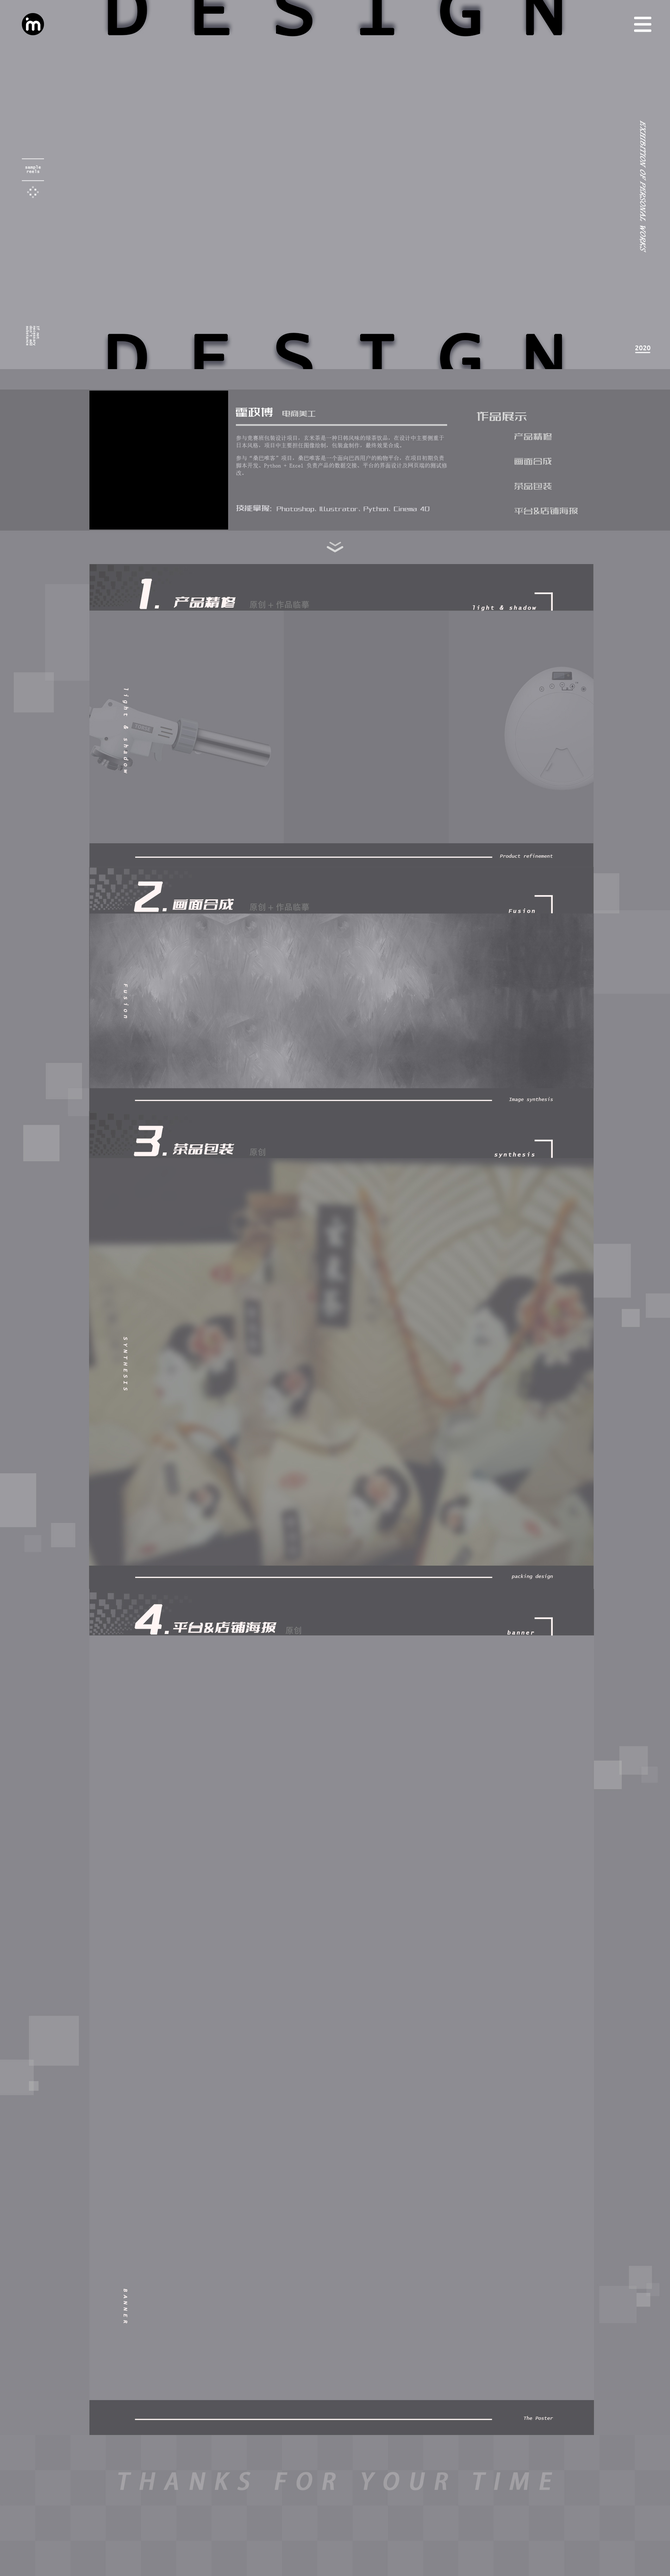
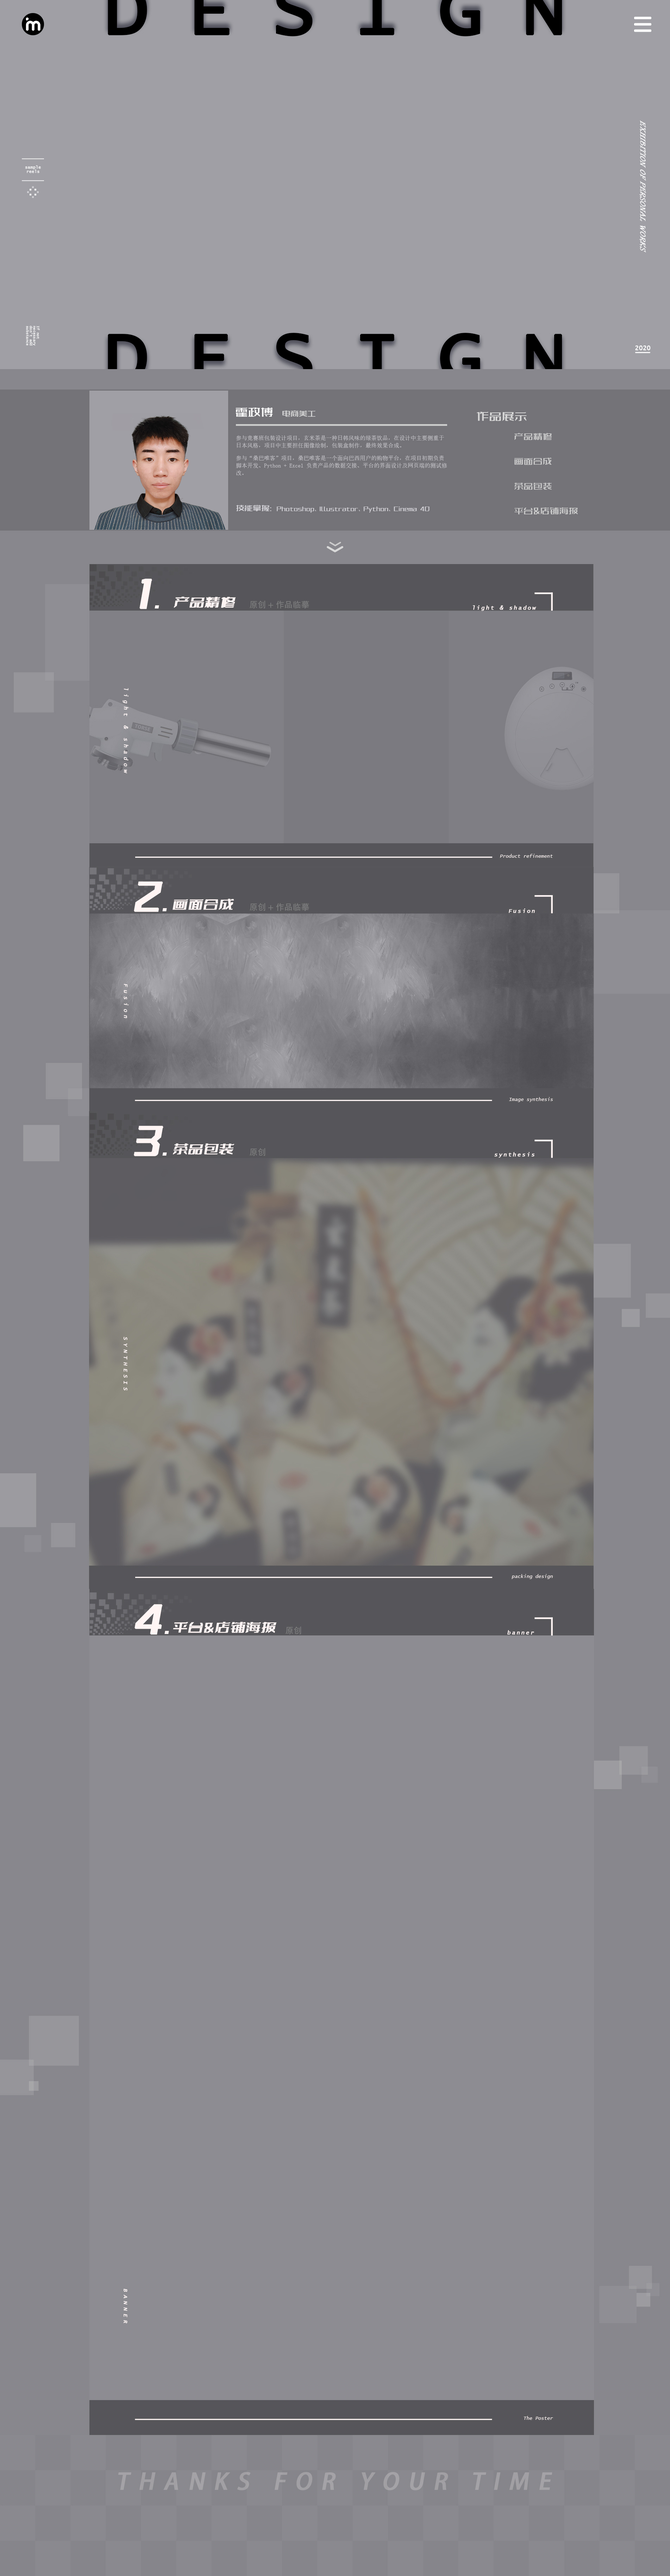
finished

Changed region(s): [[0.124, 0.1248, 0.341, 0.2184]]

diff --git a/css/new_index.css b/css/new_index.css
@@ -381,6 +381,7 @@ body {
     margin-right: 5%;
     border-radius: 10px;
     background-color: #fff;
+    background-image: url("../Image/my-pic.jpg");
 }
 
 .habbitstitle {
@@ -550,7 +551,7 @@ body {
 
 /* 校园经历 */
 .school {
-    width: 1200px;
+    width: 1010px;
     margin-top: 70px;
     margin-left: 25%;
     margin: 70px auto 0;
@@ -1080,7 +1081,7 @@ body {
 
 .C4D .realline {
     animation: bianchang-c4d 1s ease-out;
-    width: 50%;
+    width: 30%;
     height: 20px;
     border-radius: 10px;
     background-color: rgb(140, 142, 155);
@@ -1176,6 +1177,18 @@ body {
 
 .Illustrator .pic3 {
     background-image: url("../Image/ai-zuopin3.jpg");
+}
+
+.C4D .pic1 {
+    background-image: url("../Image/c4d-fengshan.jpg");
+}
+
+.C4D .pic2 {
+    background-image: url("../Image/c4d-feiji.jpg");
+}
+
+.C4D .pic3 {
+    background-image: url("../Image/c4d-cup.jpg");
 }
 
 .footer {

diff --git a/index.html b/index.html
@@ -189,8 +189,8 @@
             <div class="work-content">
                 <h4>美工、数据交接</h4>
                 <ul>
-                    <li><p>爬虫优化采集产品信息</p></li>
-                    <li><p>网站测试、基本页面制作、社交宣传海报制作</p></li>
+                    <li><p>编写爬虫脚本采集产品信息</p></li>
+                    <li><p>网站调试、基本页面制作、社交宣传海报制作</p></li>
                 </ul>
             </div>
         </div>
